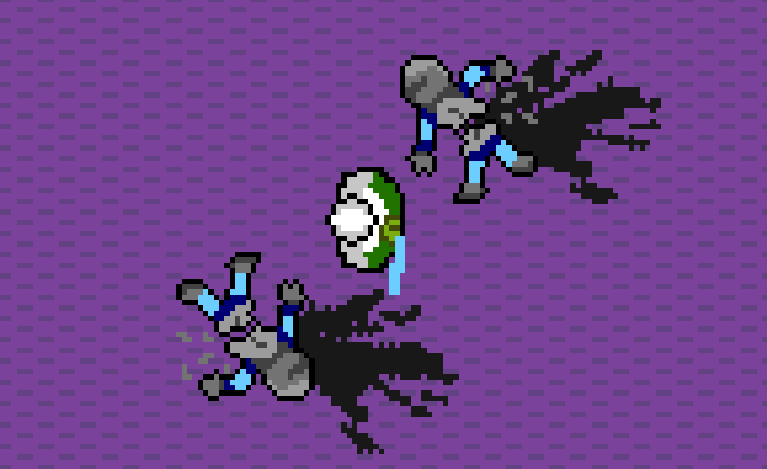
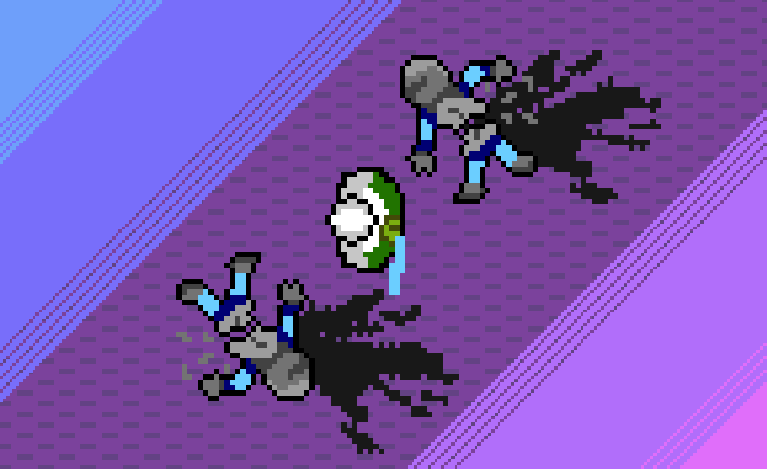
Update some publishing content

diff --git a/web/index.html b/web/index.html
@@ -42,7 +42,7 @@
         EJS_color = "#af54ff";
         EJS_pathtodata = "https://cdn.emulatorjs.org/stable/data/";
         EJS_gameUrl = "doom-escaping.gba";
-        EJS_backgroundImage = "https://img.itch.zone/aW1nLzMwNTA5MDkxLnBuZw==/315x250%23c/U%2FvZCl.png";
+        EJS_backgroundImage = "https://img.itch.zone/aW1nLzMwNjUwNDE0LnBuZw==/315x250%23c/eYHmQe.png";
         EJS_backgroundBlur = true;
         EJS_defaultControls = {
             0: {
